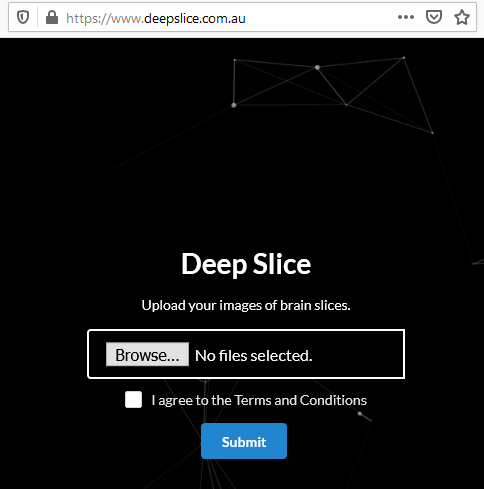
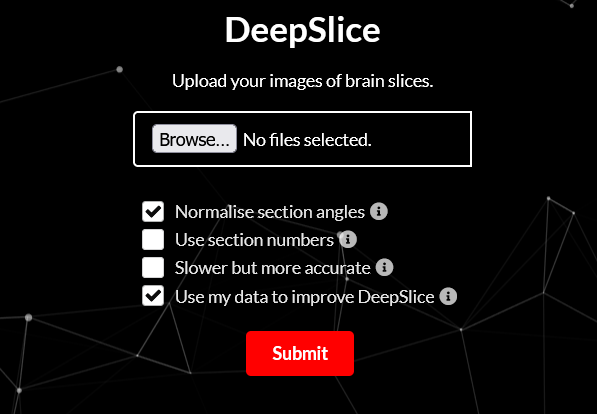
updates deepslice documentation

diff --git a/registration_with_deepslice.md b/registration_with_deepslice.md
@@ -1,6 +1,6 @@
 # Using DeepSlice in ABBA
 
-[DeepSlice](https://researchers.mq.edu.au/en/publications/deepslice-a-deep-neural-network-for-fully-automatic-alignment-of--2) is a deep learning based tool for automatic alignment of whole mouse brain histological sections. It is developed in the McMullan lab group by [Harry Carey](harry.carey@hdr.mq.edu.au) at [Macquarie University](https://www.mq.edu.au/), Sydney, Australia.
+[DeepSlice](https://www.deepslice.com.au/open-guide) is a deep learning based tool for automatic alignment of whole mouse brain histological sections. It is developed in the McMullan lab group by [Harry Carey](harry.carey@hdr.mq.edu.au) at [Macquarie University](https://www.mq.edu.au/), Sydney, Australia.
 
 
 The tool is currently accessible via a web interface at https://www.deepslice.com.au/.
@@ -40,11 +40,15 @@ After pressing ok, you get this window:
 
 ![DeepSlice step 0](assets/img/fiji_deepslice_0.png)
 
-After clicking it, a web page should open at DeepSlice web interface:
+After clicking it, a web page will open in your browser with the DeepSlice interface:
 
 ![DeepSlice web interface](assets/img/deepslice_web.png)
 
 You can drag and drop the content of your dataset folder into this page, and then submit the task.
+
+---
+warning: Checking `Slower but more accurate results` is strongly adivsed because DeepSlice is very fast anyway. If your slices are regularly evenly spaced, you can click `Use section numbers`. Check `Normalise section angles` because ABBA forces this normalization anyway afterwards (only one cutting angle allowed).
+---
 
 When the registration is done, you can download the result xml file:
 
